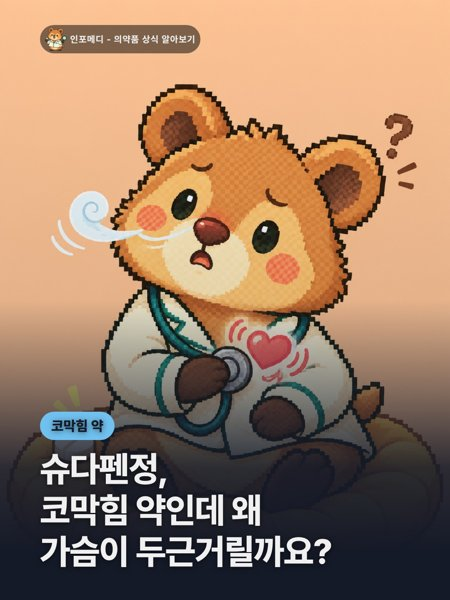
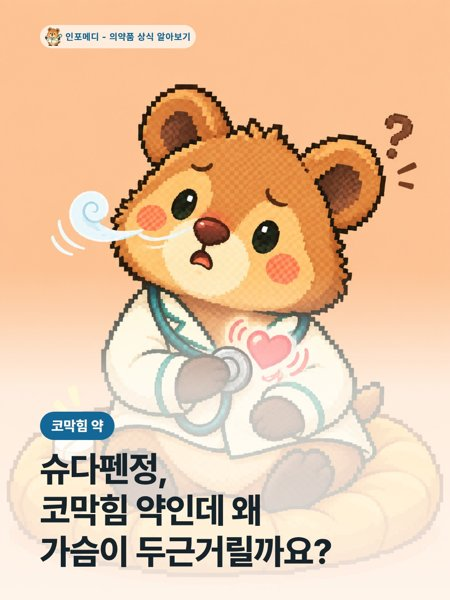
links

diff --git a/index.html b/index.html
@@ -34,7 +34,7 @@
 <section class="section">
 <h2>의약품 정보 <small id="count"></small></h2>
 <div class="grid" id="list">
-<a class="item" href="https://blog.naver.com/info_medi_/224426520740"><img src="c/슈다펜정-white.jpg" alt="" loading="lazy">
+<a class="item" href="https://blog.naver.com/info_medi_/224426520740"><img src="c/슈다펜정.jpg" alt="" loading="lazy">
 <span><b>슈다펜정, 코막힘 약인데 왜 가슴이 두근거릴까요?</b><small><time datetime="2026-10-09 18:21"></time></small></span></a>
 <a class="item" href="https://blog.naver.com/info_medi_/224428826118"><img src="c/브룩스.jpg" alt="" loading="lazy">
 <span><b>브룩스, 쓰린 속을 어떻게 달래 줄까요?</b><small><time datetime="2026-10-09 12:25"></time></small></span></a>
